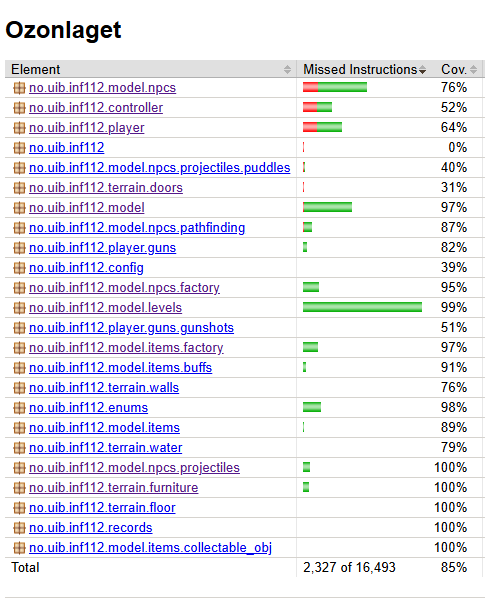
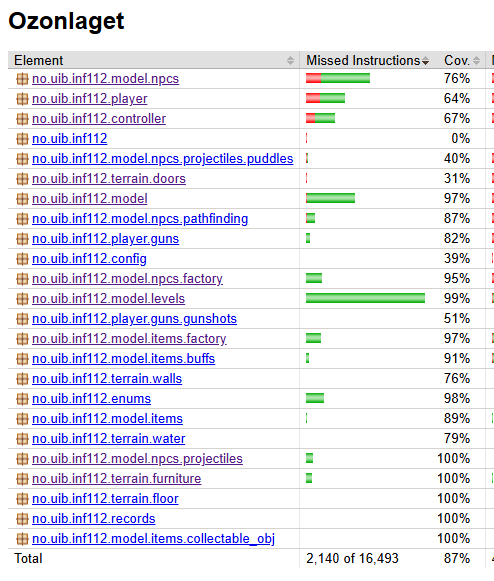
fix: gigachad no longer spawns on top of player

diff --git a/src/main/java/no/uib/inf112/model/npcs/factory/SpawnPoint.java b/src/main/java/no/uib/inf112/model/npcs/factory/SpawnPoint.java
@@ -102,7 +102,7 @@ public class SpawnPoint {
         if (player == null) {
             return false;
         }
-        double requiredSafeZone = (type == EnemyType.MEGABOSS) ? 0 : SAFE_ZONE;
+        double requiredSafeZone = (type == EnemyType.MEGABOSS) ? SAFE_ZONE / 2 : SAFE_ZONE;
         if (distance(hitBox, player.getHitbox()) <= requiredSafeZone) {
             return false;
         }
@@ -140,6 +140,11 @@ public class SpawnPoint {
         if (hitBox == null) {
             return false;
         }
+
+        if (hitBox.intersects(this.map.getPlayer().getHitbox())){
+            return false;
+        }
+
         for (IEnemy enemy : this.map.getEnemies()) {
             if (hitBox.intersects(enemy.getHitbox())) {
                 return false;

diff --git a/doc/møtereferat/møtereferat-04.05.md b/doc/møtereferat/møtereferat-04.05.md
@@ -1,0 +1,41 @@
+# Til stede
+- Rein
+- Alexander
+- 
+
+# Formål med møte
+
+    Ferdiggjøre rapport 4 - det er en del ting som må gjøres i fellesskap
+    Diskutere/forberede presentasjon
+    Vi må justere config filen med fart etc
+
+# Retrospektiv - hva kan forbedres og hva er bra
+
+
+
+# Avtale presentasjon
+
+    Vi har presentasjon Onsdag 06.05 kl 12 
+
+# Live presentasjon
+
+- Noen forklarer at vi har brukt kanban, ukentlige møter etc
+
+- Rein går kjapt over klassediagram
+
+- Rein spiller spillet
+- William forklarer mens spillet spilles
+    - Line of sight - vegger/møbler
+    - Karakteren - forskjellige våpen
+    - Helikopter - innelåst
+    - Grid/navigering A*
+    - Backpack/objectives
+    - Zombie wander/aggro logikk
+    - Forskjellige fiender
+    - Buffs/effekts - kan skru av blinking og darkness som accessibility option
+
+- Vi takker og bukker
+
+# Rapport 4
+
+# Diverse

diff --git a/doc/report-4.md b/doc/report-4.md
@@ -377,7 +377,7 @@ Siden forrige møte har vi fokusert veldig på å få et mer spillbart spill.
 ### Testing
 
     Vi har hatt fokus på dette siste ukene og skrevet flere tusen linjer med tester.
-    Til rapport 3 hadde vi bare noen få tester i mål og vi hadde en stor jobb foran oss med et såpass omfattelig prosjekt som måtte testes. Med stort fokus opp mot siste innlevering kom vi godt i mål med 85% coverage.
+    Til rapport 3 hadde vi bare noen få tester i mål og vi hadde en stor jobb foran oss med et såpass omfattelig prosjekt som måtte testes. Med stort fokus opp mot siste innlevering kom vi godt i mål med 87% coverage.
 
     Vi har valgt å ekskludere en del ting fra testing:
         - View: inneholder alle IDrawer objektene.
